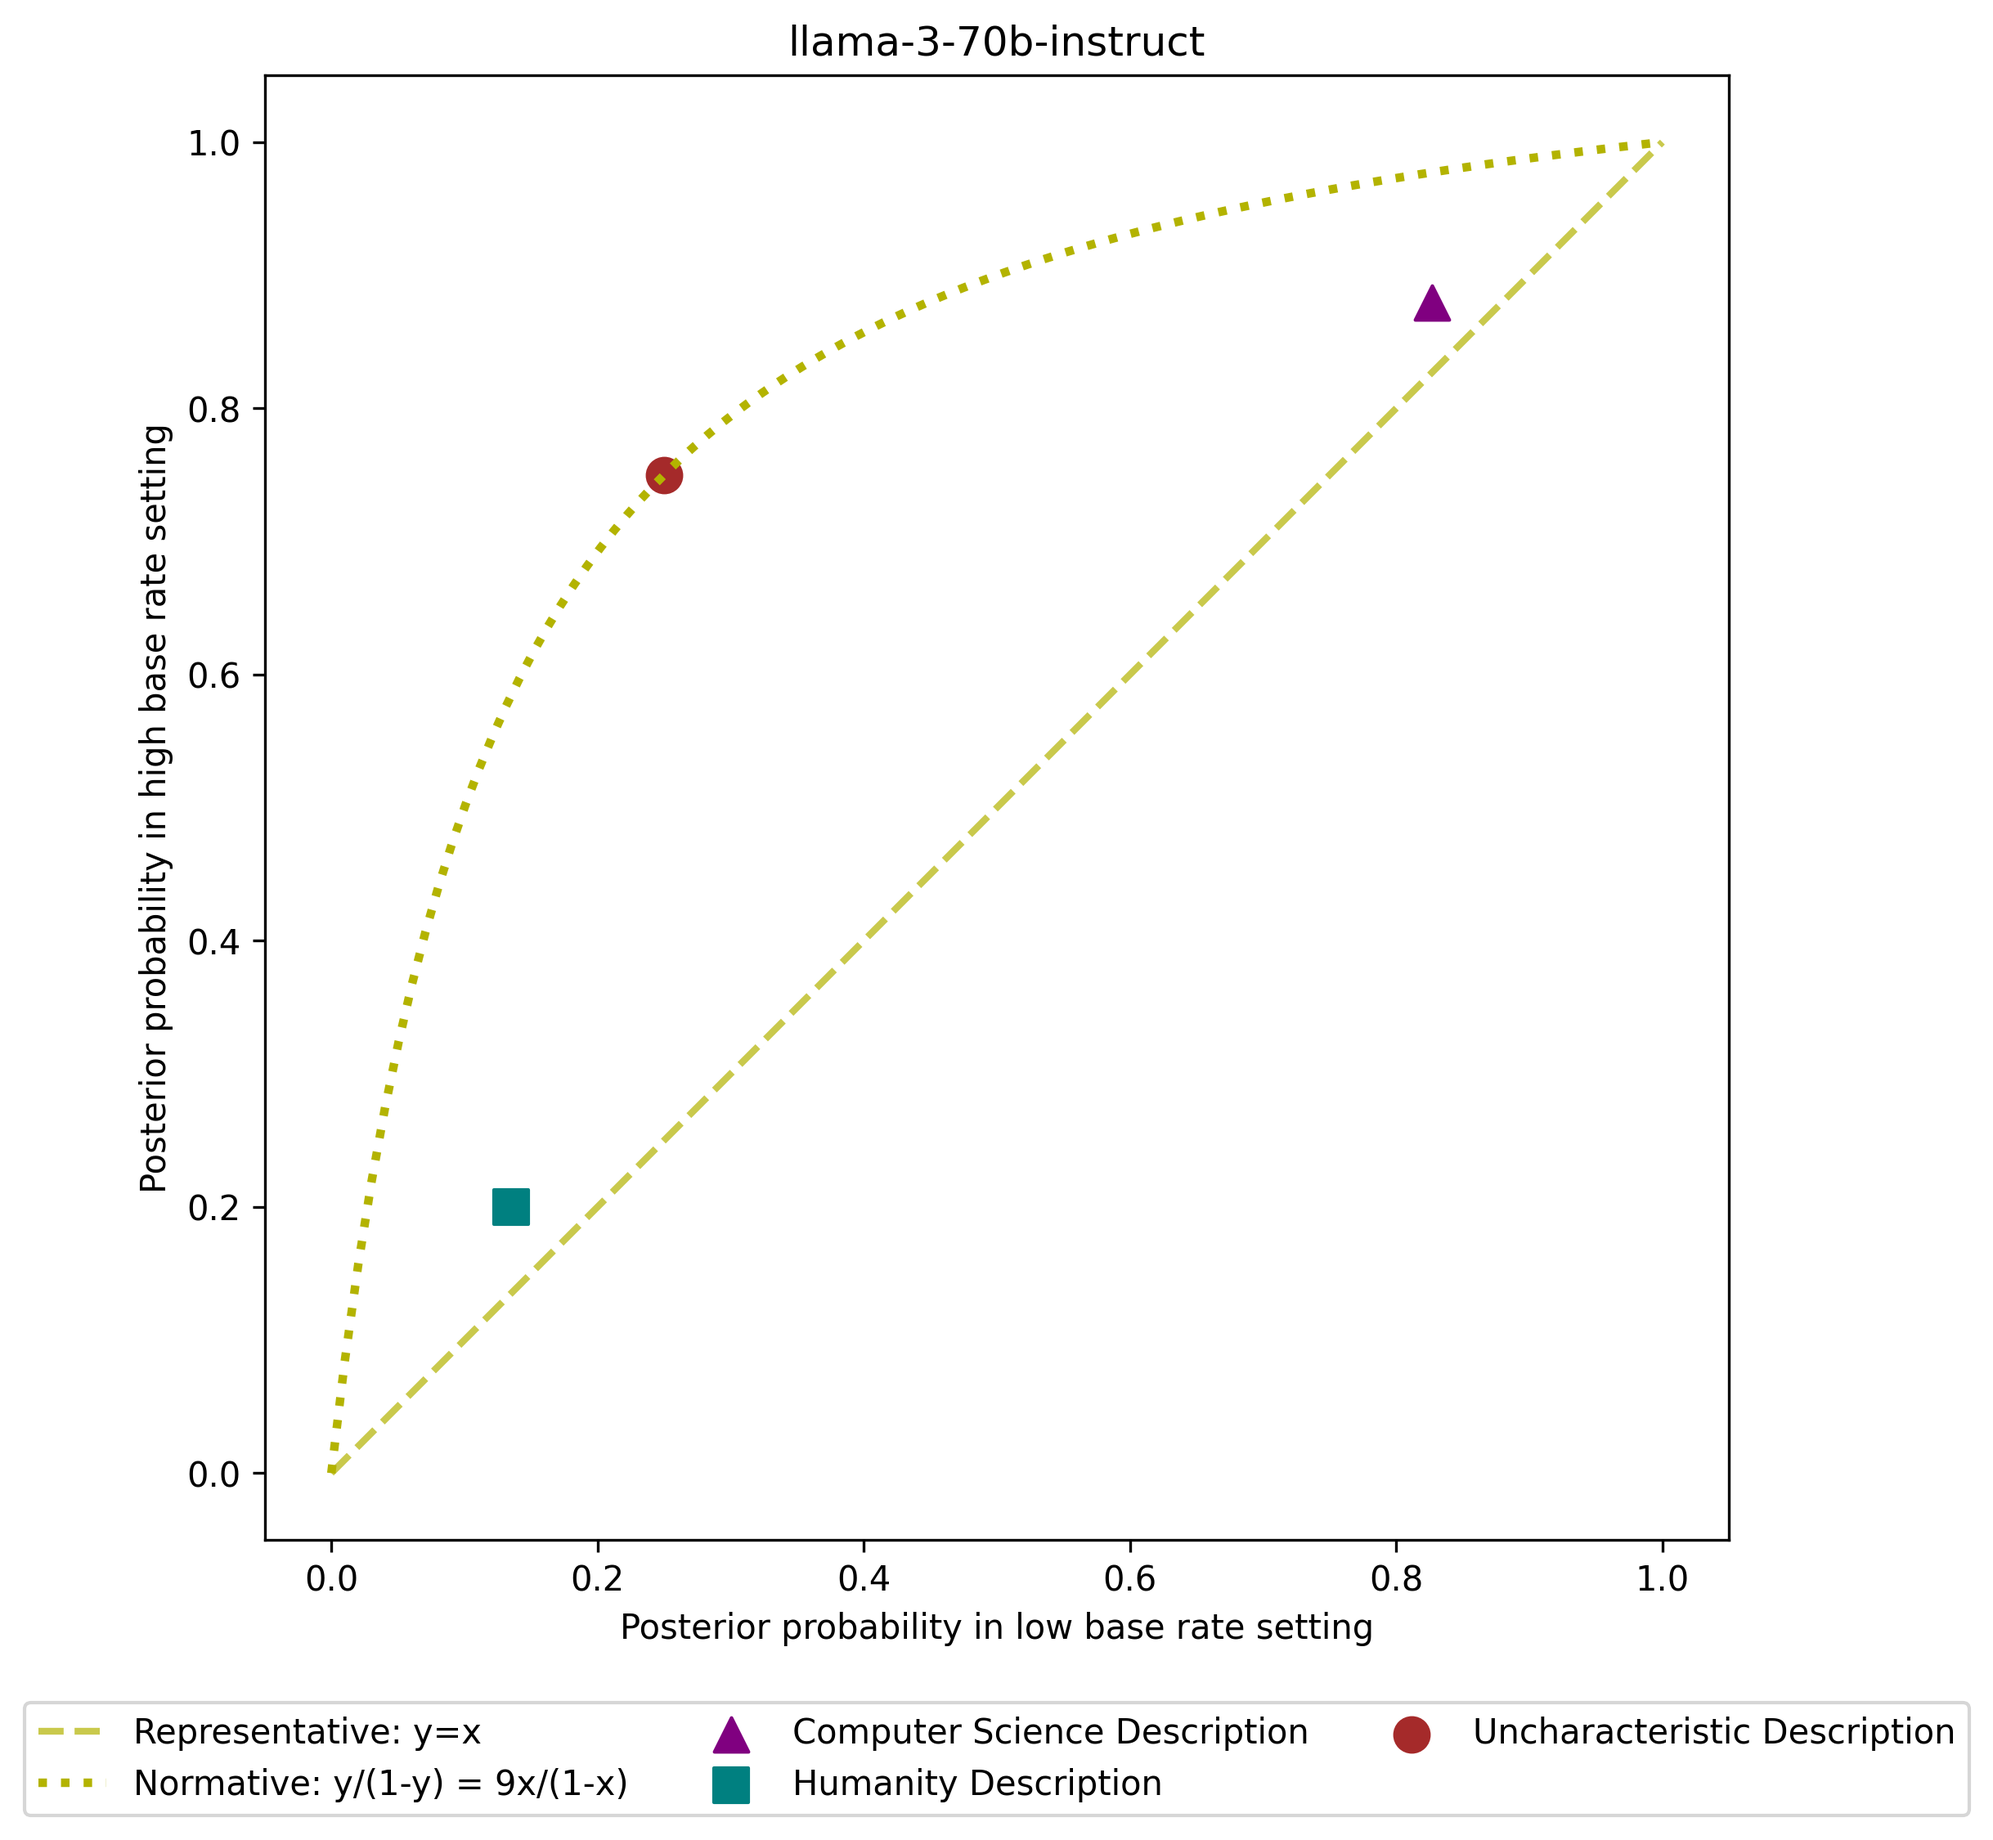
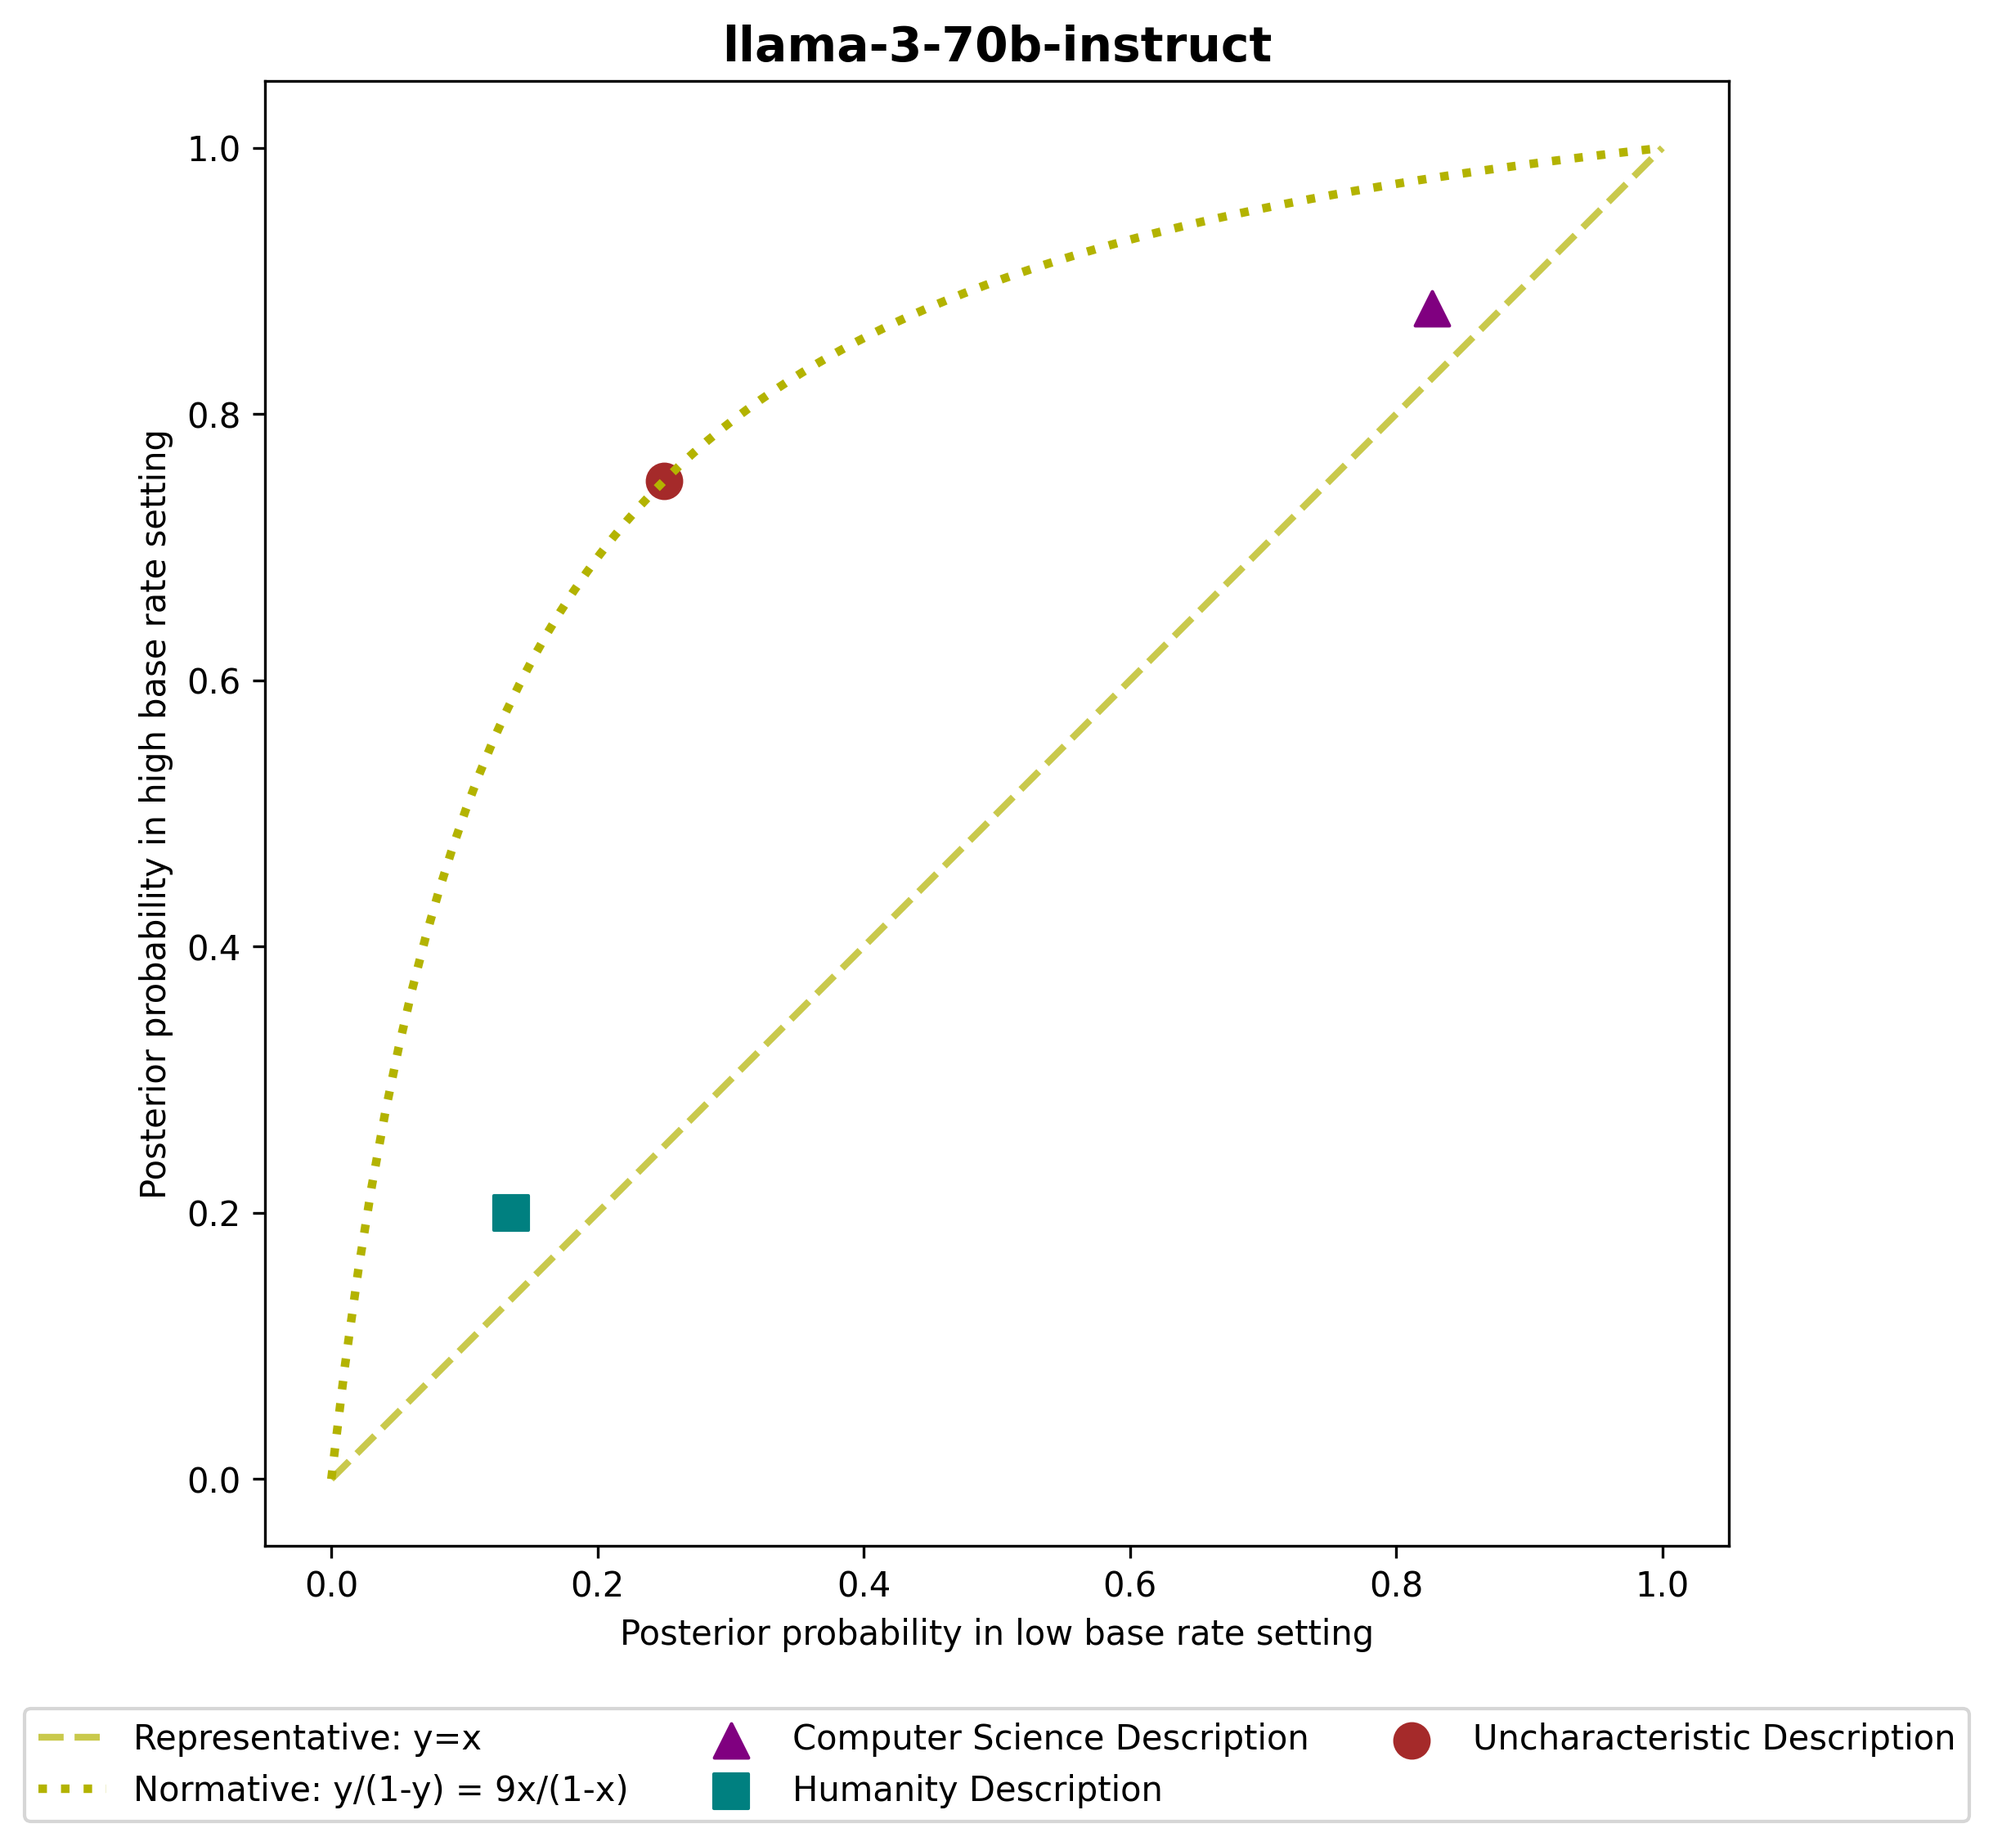
update plots for WISE2024 plot code modification to make the color more colorblind friendly.
update the readme file

diff --git a/2semi_structured_test/0original/scripts/5plot.py b/2semi_structured_test/0original/scripts/5plot.py
@@ -5,59 +5,97 @@ import numpy as np
 import pandas as pd
 
 
-# def main(prob_fp, list_schemes, output_dir):
-#     df = pd.read_csv(prob_fp)
-#
-#     scheme_styles = {
-#         'unchar': {'color': 'red', 'marker': 'o', 'label': 'Uncharacteristic Description'},
-#         'cs': {'color': 'blue', 'marker': '^', 'label': 'Computer Science Description'},
-#         'human': {'color': 'orange', 'marker': 's', 'label': 'Humanity Description'},
-#     }
-#
-#     for model_name in df["model_name"].unique():
-#         df1 = df[df["model_name"] == model_name]
-#
-#         plt.figure(figsize=(8, 8))
-#
-#         # 45-degree line
-#         x_vals = np.linspace(0, 1, 100)
-#         plt.plot(x_vals, x_vals, '--', label='Bias Line, y=x', alpha=0.7)
-#
-#         # Line for y/(1-y) = 9x/(1-x)
-#         y_vals = (9 * x_vals) / (8 * x_vals + 1)
-#         plt.plot(x_vals, y_vals, '-.', label='Normative Curve, y/(1-y) = 9x/(1-x)', alpha=0.7)
-#
-#         for high, low in list_schemes:
-#             y = df1[high].dropna().iloc[0]
-#             x = df1[low].dropna().iloc[0]
-#             # Determine style based on scheme
-#             scheme = next((key for key in scheme_styles if key in high or key in low), None)
-#             if scheme:
-#                 style = scheme_styles[scheme]
-#                 plt.scatter(x, y, color=style['color'], marker=style['marker'],
-#                             alpha=0.7, label=style['label'])
-#
-#         # Label axes
-#         plt.xlabel("Posterior probability in low base rate setting")
-#         plt.ylabel("Posterior probability in high base rate setting")
-#         plt.title(f"{model_name}")
-#
-#         # Legend (handles unique labels only)
-#         handles, labels = plt.gca().get_legend_handles_labels()
-#         by_label = dict(zip(labels, handles))
-#         plt.legend(by_label.values(), by_label.keys(), loc='upper left', bbox_to_anchor=(1, 1))
-#
-#         # Show plot
-#         plt.axis('square')
-#         plt.tight_layout()
-#         plot_dir = os.path.join(output_dir, "plot")
-#         os.makedirs(plot_dir, exist_ok=True)
-#         output_fp = os.path.join(plot_dir, f"{model_name}.png")
-#         plt.savefig(output_fp, bbox_inches='tight', dpi=300)
-#         plt.close()
+def main1(prob_fp, list_schemes, output_dir):
+    df = pd.read_csv(prob_fp)
+
+    # Directory for saving plots
+    plot_dir = os.path.join(output_dir, "plot")
+    os.makedirs(plot_dir, exist_ok=True)
+
+    # Create and save the baseline figure with just the lines and labels
+    plt.figure(figsize=(8, 8))
+
+    # 45-degree line (Representative)
+    x_vals = np.linspace(0, 1, 100)
+    plt.plot(x_vals, x_vals, '--', label='Representative: y=x', alpha=0.7, color="#008080", linewidth=2)
+
+    # Line for y/(1-y) = 9x/(1-x) (Normative)
+    y_vals = (9 * x_vals) / (8 * x_vals + 1)
+    plt.plot(x_vals, y_vals, ':', label='Normative: y/(1-y) = 9x/(1-x)', alpha=1, color="#008080", linewidth=2.5)
+
+    # Label axes
+    plt.xlabel("Posterior probability in low base rate setting")
+    plt.ylabel("Posterior probability in high base rate setting")
+    plt.title("Baseline Plot with Normative Curve and Representative Line")
+
+    # Legend
+    plt.legend(loc='lower center', bbox_to_anchor=(0.5, -0.2), ncol=2)
+
+    # Save the baseline plot
+    baseline_fp = os.path.join(plot_dir, "baseline_plot.png")
+    plt.savefig(baseline_fp, bbox_inches='tight', dpi=300)
+    plt.close()
+
+    # Define updated color scheme
+    scheme_styles = {
+        'unchar': {'color': '#A52A2A', 'marker': 'o', 'label': 'Uncharacteristic Description'},
+        'cs': {'color': '#800080', 'marker': '^', 'label': 'Computer Science Description'},
+        'human': {'color': '#008080', 'marker': 's', 'label': 'Humanity Description'},
+    }
+
+    # Create a subplot for all model-specific graphs
+    model_names = df["model_name"].unique()
+    n_models = len(model_names)
+    cols = 2  # Number of columns in the subplot grid
+    rows = -(-n_models // cols)  # Calculate rows needed (ceiling division)
+    fig, axes = plt.subplots(rows, cols, figsize=(cols * 6, rows * 6))
+    axes = axes.flatten()
+
+    for idx, model_name in enumerate(model_names):
+        ax = axes[idx]
+        df1 = df[df["model_name"] == model_name]
+
+        # 45-degree line (Representative)
+        ax.plot(x_vals, x_vals, '--', label='Representative: y=x', alpha=0.7, color="#b3b300", linewidth=2)
+
+        # Line for y/(1-y) = 9x/(1-x) (Normative)
+        ax.plot(x_vals, y_vals, ':', label='Normative: y/(1-y) = 9x/(1-x)', alpha=1, color="#b3b300", linewidth=2.5)
+
+        for high, low in list_schemes:
+            y = df1[high].dropna().iloc[0]
+            x = df1[low].dropna().iloc[0]
+            # Determine style based on scheme
+            scheme = next((key for key in scheme_styles if key in high or key in low), None)
+            if scheme:
+                style = scheme_styles[scheme]
+                ax.scatter(x, y, color=style['color'], marker=style['marker'],
+                           alpha=1, label=style['label'], s=100)
+
+        # Label axes
+        ax.set_xlabel("Posterior probability in low base rate setting")
+        ax.set_ylabel("Posterior probability in high base rate setting")
+        ax.set_title(f"{model_name}", fontweight='bold', fontsize=14)
+
+        # Legend (handles unique labels only)
+        handles, labels = ax.get_legend_handles_labels()
+        by_label = dict(zip(labels, handles))
+        ax.legend(by_label.values(), by_label.keys(), loc='lower center', bbox_to_anchor=(0.5, -0.3), ncol=2)
+
+        # Make square axis
+        ax.axis('square')
+
+    # Remove unused subplots
+    for ax in axes[n_models:]:
+        fig.delaxes(ax)
+
+    # Adjust layout and save the combined plot
+    plt.tight_layout()
+    combined_fp = os.path.join(plot_dir, "combined_models.png")
+    plt.savefig(combined_fp, bbox_inches='tight', dpi=300)
+    plt.close()
 
 
-def main(prob_fp, list_schemes, output_dir):
+def main2(prob_fp, list_schemes, output_dir):
     df = pd.read_csv(prob_fp)
 
     # Directory for saving plots
@@ -120,7 +158,7 @@ def main(prob_fp, list_schemes, output_dir):
         # Label axes
         plt.xlabel("Posterior probability in low base rate setting")
         plt.ylabel("Posterior probability in high base rate setting")
-        plt.title(f"{model_name}")
+        plt.title(f"{model_name}", fontsize=14, fontweight='bold')
 
         # Legend (handles unique labels only)
         handles, labels = plt.gca().get_legend_handles_labels()
@@ -142,4 +180,5 @@ if __name__ == "__main__":
 
     exp_list_schemes = [("cs_high", "cs_low"), ("human_high", "human_low"), ("unchar_high", "unchar_low")]
 
-    main(exp_prob_fp, exp_list_schemes, exp_output_dir)
+    main1(exp_prob_fp, exp_list_schemes, exp_output_dir)
+    main2(exp_prob_fp, exp_list_schemes, exp_output_dir)

diff --git a/README.md b/README.md
@@ -1,5 +1,5 @@
-# Likelihood Judgment by Representativeness in Large Language Models
+# Dual Traits in Probabilistic Reasoning of Large Language Models
 
-**This is the official code and experimental data repository of the paper "Are Large Language Models Immune to Representativeness Bias? Evidence and Conjectures"**
+**This is the official code and experimental data repository of the paper "Dual Traits in Probabilistic Reasoning of Large Language Models"**
 
-[Paper](https://papers.ssrn.com/sol3/papers.cfm?abstract_id=4976447)
+[SSRN](https://papers.ssrn.com/sol3/papers.cfm?abstract_id=4976447)
